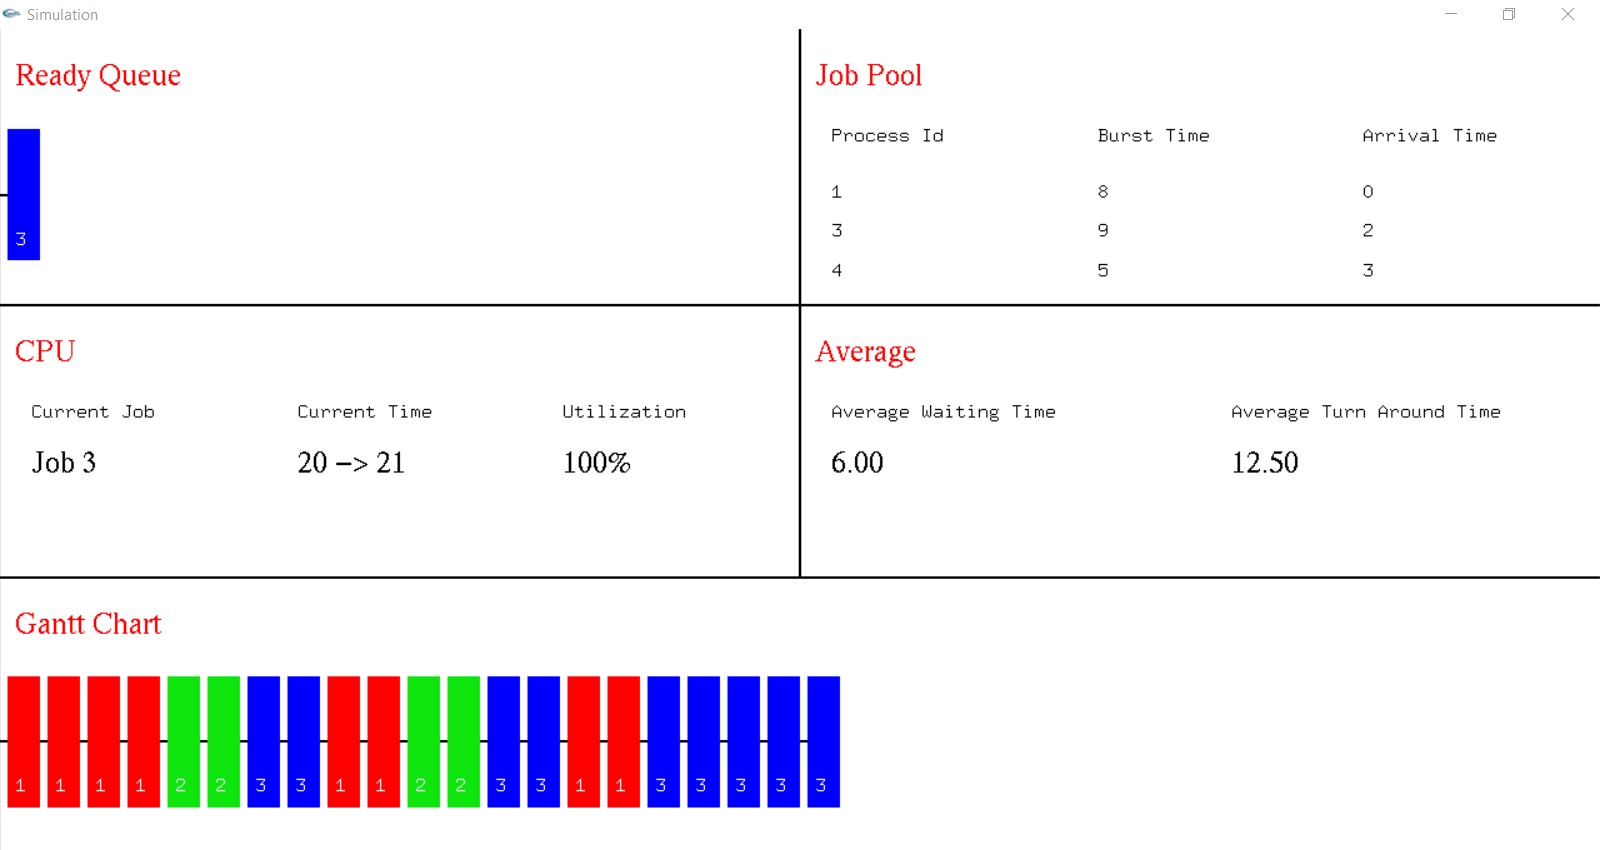
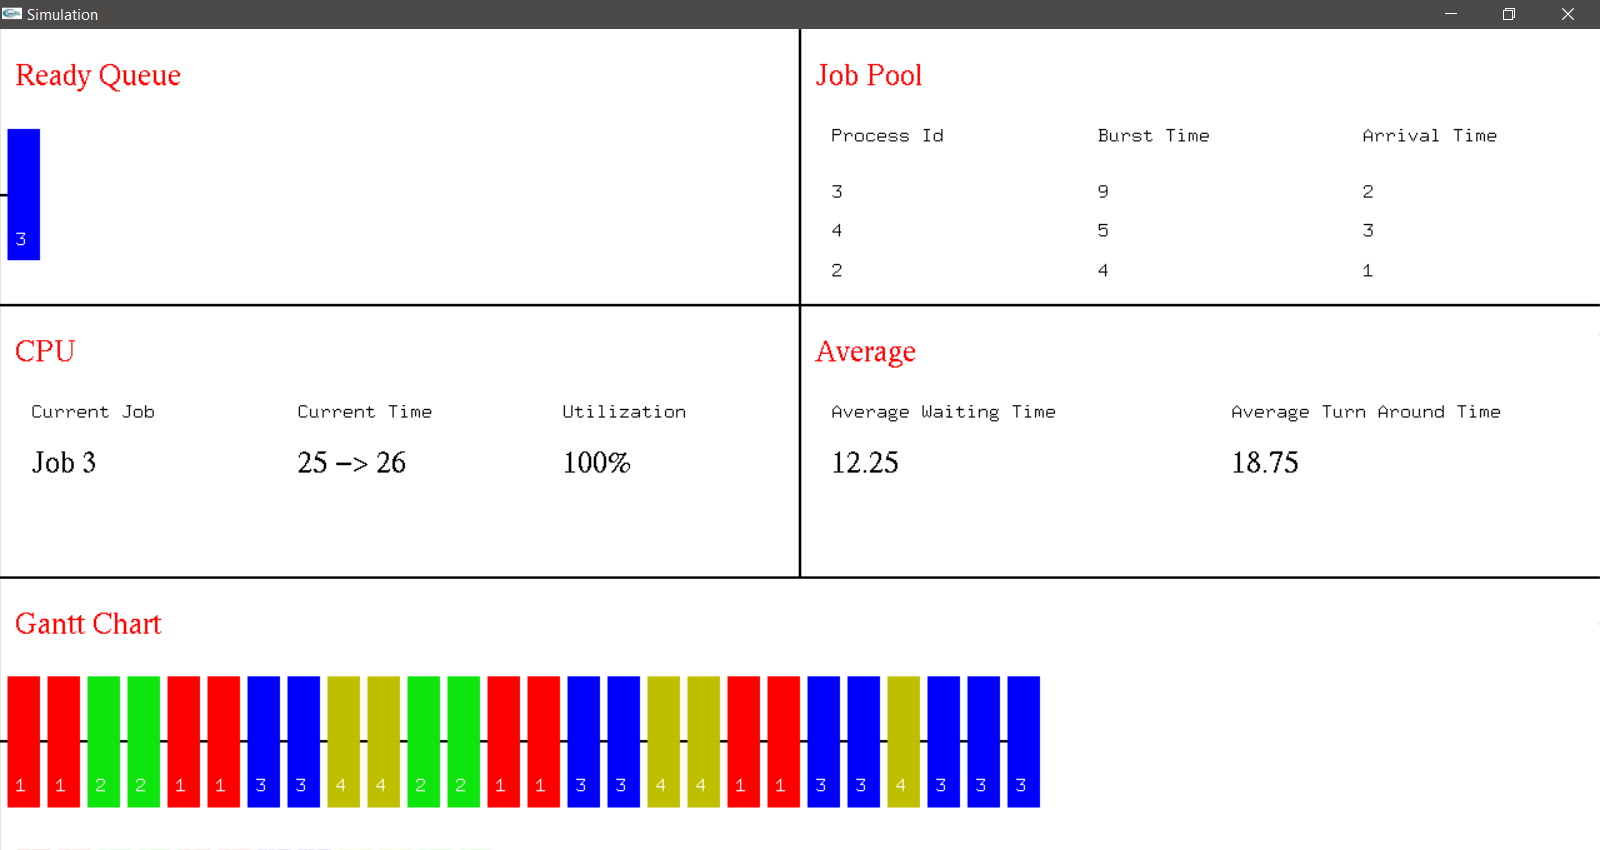
fix: Include all processes for round robin

diff --git a/OS_Scheduling_Algorithm_Simulation/SchedulingAlgorithms.h b/OS_Scheduling_Algorithm_Simulation/SchedulingAlgorithms.h
@@ -298,6 +298,15 @@ static void roundRobinPreemptive(Process inputProcesses[], const int n)
 
 			for (int i = 0; i < executionTime; ++i)
 			{
+				if (arrivalTimes.find(currentTime + i) != arrivalTimes.end())
+				{
+					while (processCursor < n && processes[processCursor].arrivalTime <= currentTime + i)
+					{
+						arrivedProcesses.push_back(&processes[processCursor]);
+						processCursor += 1;
+					}
+				}
+
 				for (std::list<Process *>::iterator iterator = arrivedProcesses.begin(); iterator != arrivedProcesses.end(); ++iterator)
 				{
 					if (*iterator == currentProcess)
